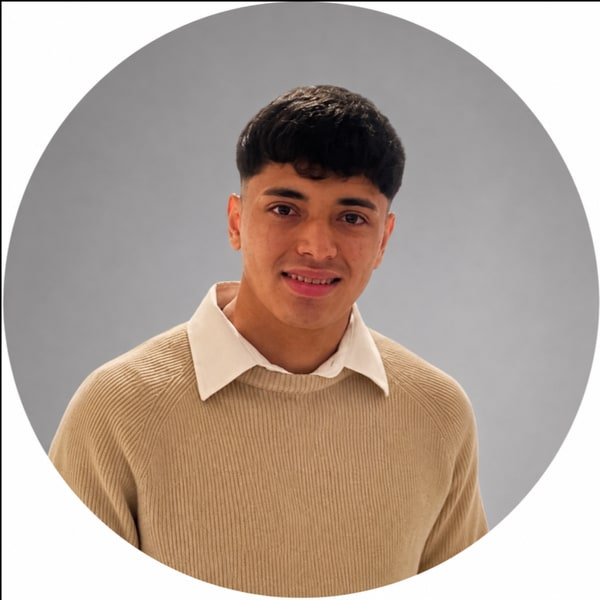
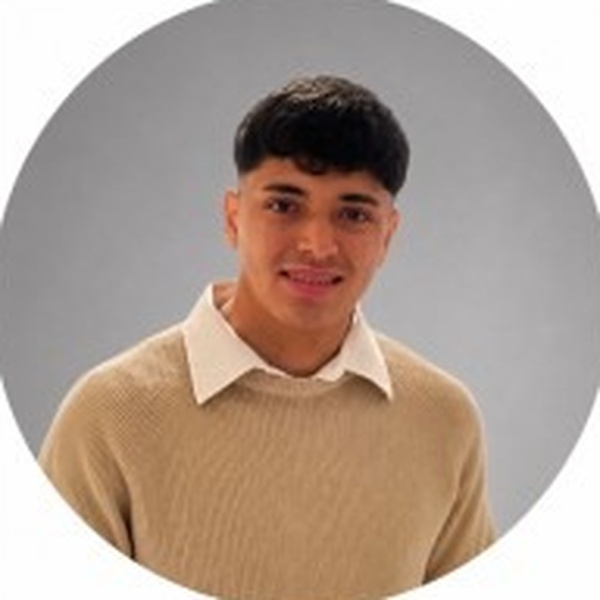
fix(equipo): actualizar retrato de Franco Riquero y estilizar avatares circulares

diff --git a/components/sections/about.tsx b/components/sections/about.tsx
@@ -39,7 +39,7 @@ export function About() {
               className="flex flex-col gap-5 rounded-2xl border border-border bg-surface/40 p-6 transition-colors duration-300 hover:border-foreground/20 hover:bg-surface md:p-8 lg:flex-row lg:items-start"
             >
               {member.imageUrl && (
-                <div className="relative h-20 w-20 shrink-0 overflow-hidden rounded-2xl border border-border lg:h-24 lg:w-24">
+                <div className="relative h-20 w-20 shrink-0 overflow-hidden rounded-full border border-border lg:h-24 lg:w-24">
                   <Image
                     src={member.imageUrl}
                     alt={member.name ?? ""}
